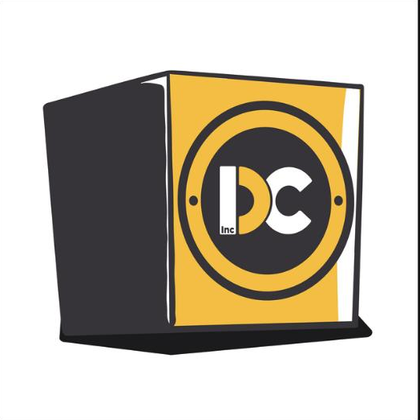
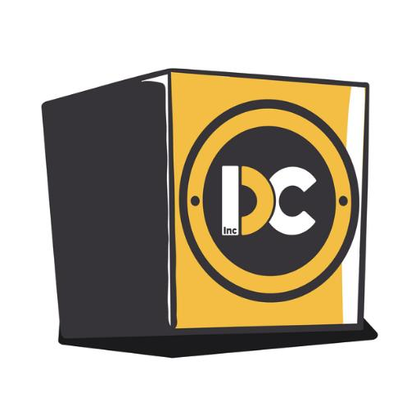
fix(home): saca borde negro residual de los iconos recortados, corrige el className roto de la etiqueta de categoria (texto pegado sin estilo) y cambia SKU por productos

diff --git a/src/app/page.module.css b/src/app/page.module.css
@@ -127,18 +127,21 @@
   aspect-ratio: 1 / 1;
 }
 .catTile .lab {
-  padding: 12px 14px;
+  padding: 14px 16px 16px;
   display: flex;
-  align-items: center;
-  justify-content: space-between;
+  flex-direction: column;
+  gap: 3px;
 }
 .catTile .lab b {
   font-family: var(--display);
-  font-size: 15px;
+  font-weight: 700;
+  font-size: 16px;
+  line-height: 1.25;
+  color: var(--ink);
 }
 .catTile .lab span {
-  font-family: var(--mono);
-  font-size: 11px;
+  font-family: var(--body);
+  font-size: 12.5px;
   color: var(--muted-2);
 }
 

diff --git a/src/app/page.tsx b/src/app/page.tsx
@@ -231,9 +231,9 @@ export default async function Home() {
                   width={300}
                   height={300}
                 />
-                <div className="lab">
+                <div className={s.lab}>
                   <b>{c.name}</b>
-                  <span>{c.count} SKU</span>
+                  <span>{c.count} productos</span>
                 </div>
               </Link>
             ))}
